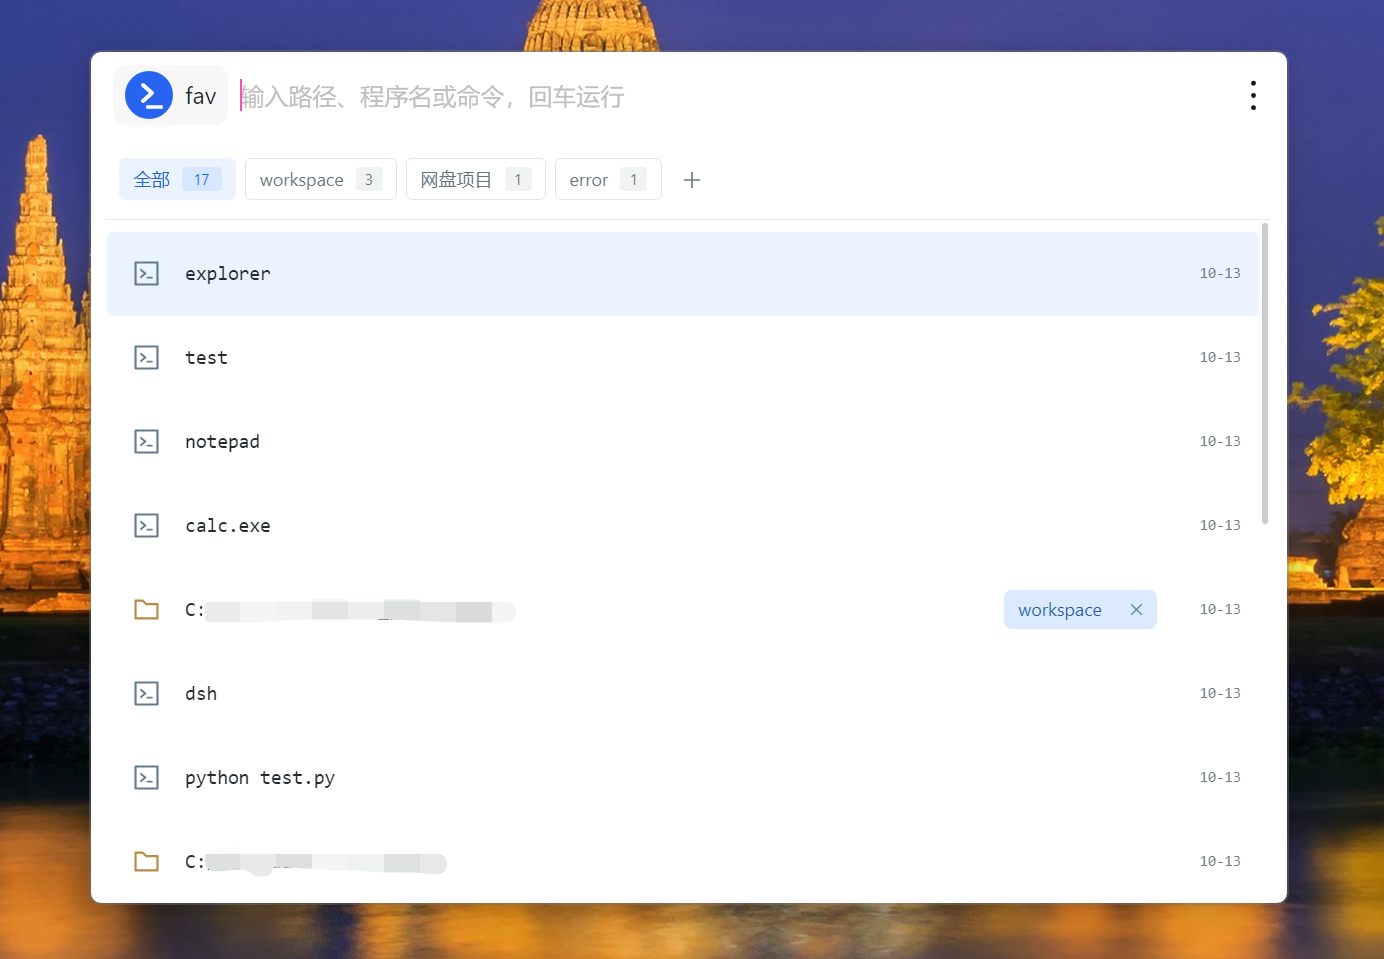
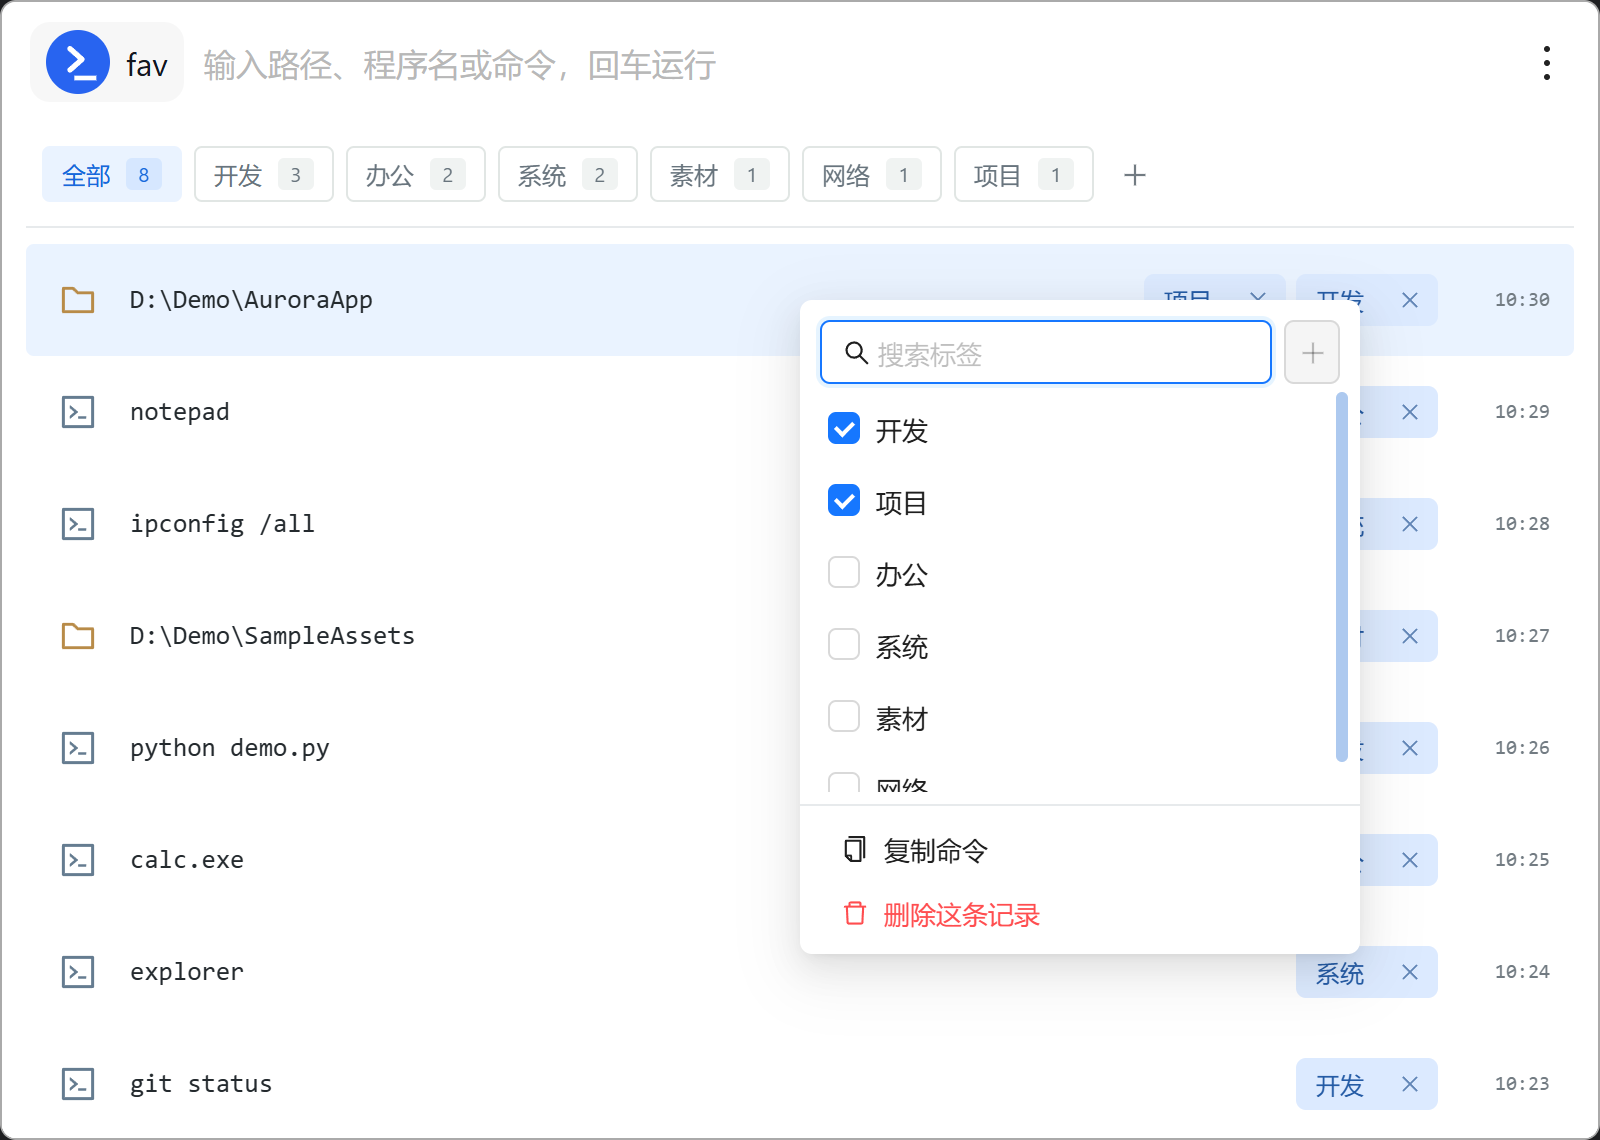
docs: use fictional demo data for README screenshot

diff --git a/tools/readme-screenshot.js b/tools/readme-screenshot.js
@@ -1,0 +1,38 @@
+const fs = require('fs');
+const path = require('path');
+const { chromium } = require('playwright');
+
+const root = path.resolve(__dirname, '..');
+const stamp = new Date(2026, 9, 14, 10, 30).getTime();
+const records = [
+  { command: 'D:\\Demo\\AuroraApp', kind: 'path', groups: ['项目', '开发'] },
+  { command: 'notepad', kind: 'command', groups: ['办公'] },
+  { command: 'ipconfig /all', kind: 'command', groups: ['网络', '系统'] },
+  { command: 'D:\\Demo\\SampleAssets', kind: 'path', groups: ['素材'] },
+  { command: 'python demo.py', kind: 'command', groups: ['开发'] },
+  { command: 'calc.exe', kind: 'command', groups: ['办公'] },
+  { command: 'explorer', kind: 'command', groups: ['系统'] },
+  { command: 'git status', kind: 'command', groups: ['开发'] }
+].map((record, index) => ({ ...record, id: `demo-${index}`, time: stamp - index * 60000 }));
+
+async function main() {
+  const browser = await chromium.launch({ headless: true, channel: 'msedge' });
+  try {
+    const page = await browser.newPage({ viewport: { width: 860, height: 630 }, deviceScaleFactor: 2 });
+    await page.addInitScript(seed => { window.e2eRecords = seed; }, records);
+    await page.route('http://rubick.test/**', route => {
+      const file = new URL(route.request().url()).pathname.slice(1);
+      if (!['tests/fixtures/rubick-host.html', 'public/index.html', 'package.json'].includes(file)) return route.fulfill({ status: 404, body: '' });
+      return route.fulfill({ contentType: file.endsWith('.json') ? 'application/json' : 'text/html', body: fs.readFileSync(path.join(root, file)) });
+    });
+    await page.goto('http://rubick.test/tests/fixtures/rubick-host.html');
+    const plugin = page.frameLocator('#plugin');
+    await plugin.locator('.row.sel').waitFor();
+    await plugin.locator('.row[data-id="demo-0"]').click({ button: 'right' });
+    await plugin.getByRole('textbox', { name: '搜索标签' }).waitFor();
+    await page.waitForTimeout(350);
+    await page.locator('.window').screenshot({ path: path.join(root, 'docs/images/rubick-startup.png'), animations: 'disabled' });
+    console.log('README screenshot generated from fictional demo records.');
+  } finally { await browser.close(); }
+}
+main().catch(error => { console.error(error); process.exitCode = 1; });
